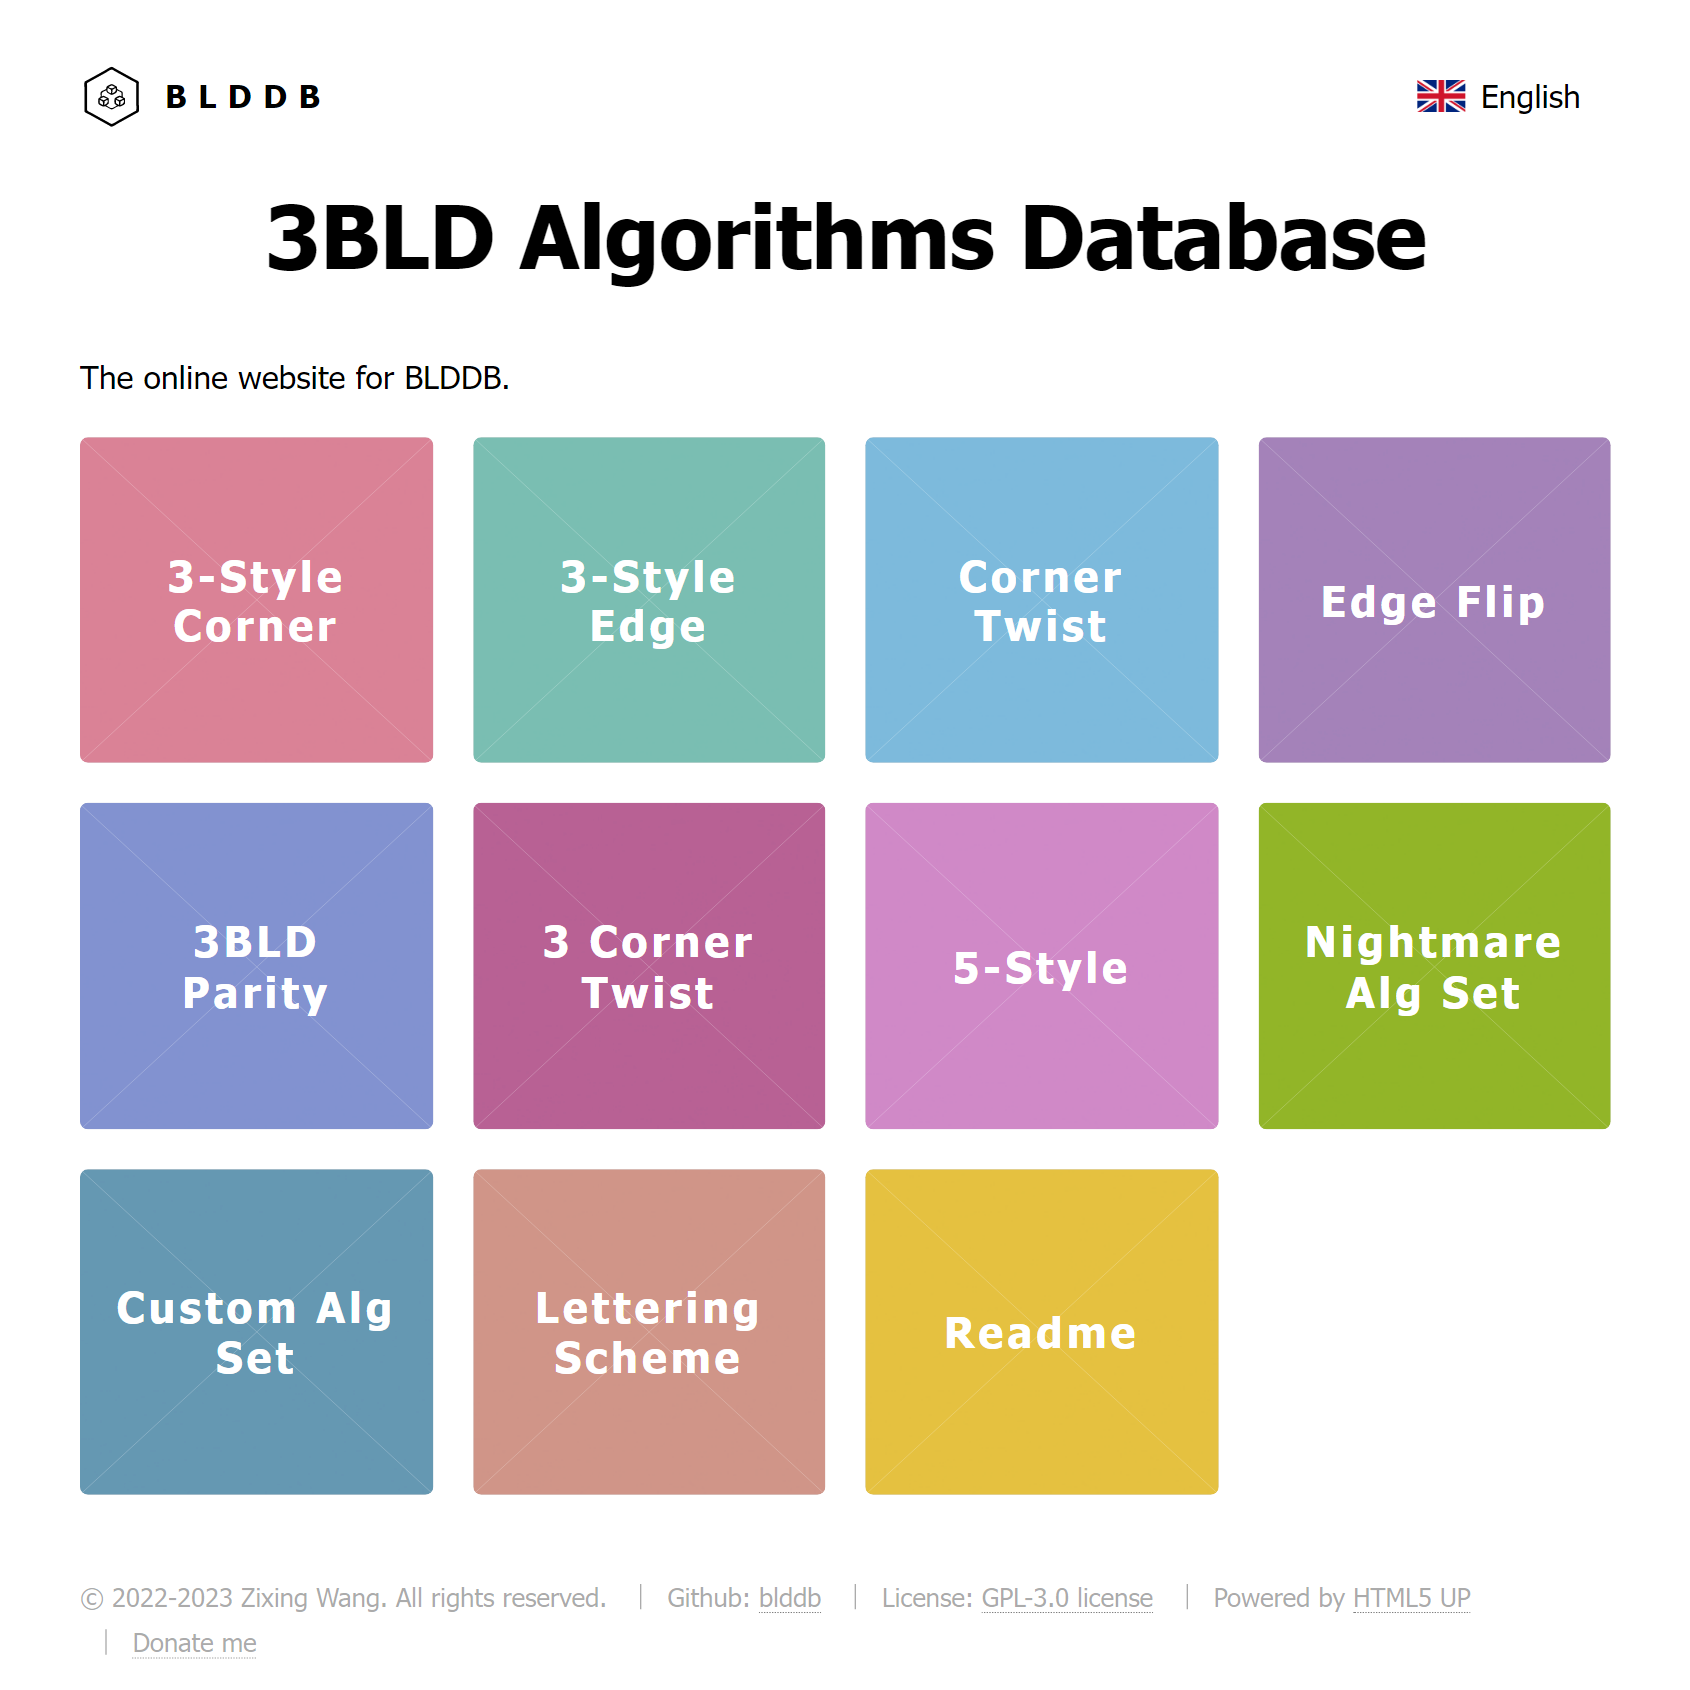
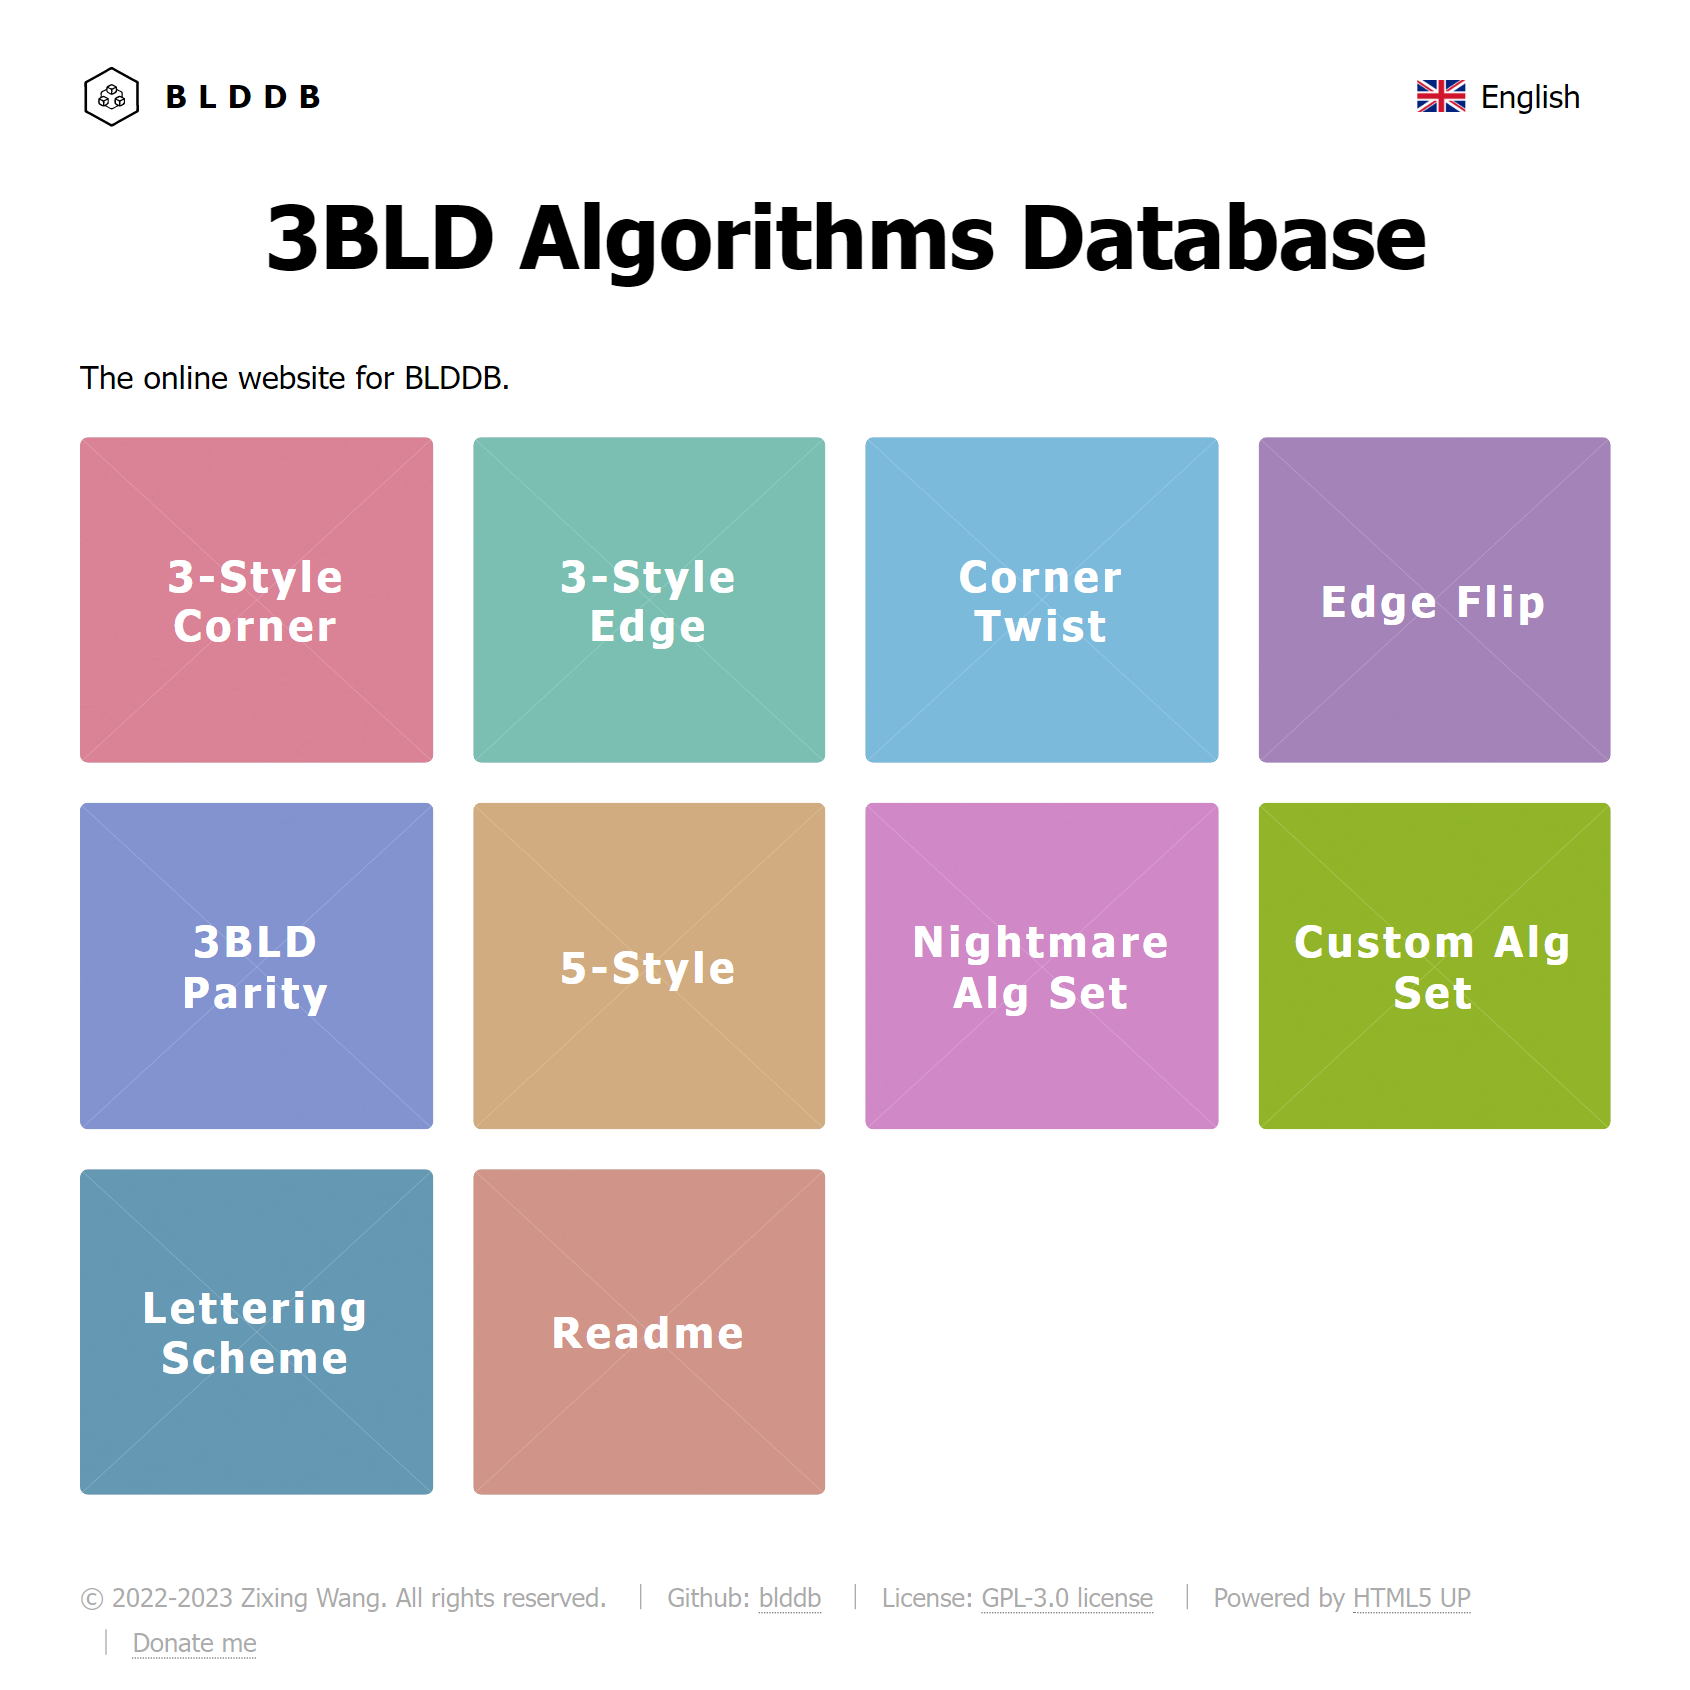
Add `twists`, remove `2twists` and `3twists`

diff --git a/en/index.html b/en/index.html
@@ -107,7 +107,6 @@
               <li class="nav-item"><a class="nav-link" href="#idocs_corner_twist">Corner Twist</a></li>
               <li class="nav-item"><a class="nav-link" href="#idocs_edge_flip">Edge Flip</a></li>
               <li class="nav-item"><a class="nav-link" href="#idocs_3bld_parity">3BLD Parity</a></li>
-              <li class="nav-item"><a class="nav-link" href="#idocs_3_corner_twist">3 Corner Twist</a></li>
               <li class="nav-item"><a class="nav-link" href="#idocs_5_style">5-Style</a></li>
               <li class="nav-item"><a class="nav-link" href="#idocs_nightmare_alg_set">Nightmare Alg set</a></li>
               <li class="nav-item"><a class="nav-link" href="#idocs_custom_alg_set">Custom Alg Set</a></li>
@@ -160,7 +159,7 @@
                   <li><strong>GitHub (docs):</strong> <a href="https://github.com/nbwzx/blddb-docs"
                       target="_blank">github.com/nbwzx/blddb-docs</a></li>
                   <li><strong>Created:</strong> June 12<sup>th</sup>, 2022</li>
-                  <li><strong>Update:</strong> January 19<sup>th</sup>, 2023</li>
+                  <li><strong>Update:</strong> March 20<sup>th</sup>, 2023</li>
                 </ul>
               </div>
             </div>
@@ -365,7 +364,7 @@
             <h2>Modules</h2>
             <p>
               　　<strong>BLDDB</strong> includes the
-              following eleven modules.
+              following ten modules.
             </p>
             <ul>
               <li>3-Style Corner</li>
@@ -373,7 +372,6 @@
               <li>Corner Twist</li>
               <li>Edge Flip</li>
               <li>3BLD Parity</li>
-              <li>3 Corner Twist</li>
               <li>5-Style</li>
               <li>Nightmare Alg Set</li>
               <li>Custom Alg Set</li>
@@ -444,8 +442,8 @@
             <p>
               　　Corner Twist uses the similar rules as the nightmare style of 3-Style Corner.
             </p>
-            <p><a class="popup-img" href="../assets/images/en/blddb.net_2twists.html.png"><img
-                  src="../assets/images/en/blddb.net_2twists.html.png" class="img-fluid img-thumbnail" alt="image"
+            <p><a class="popup-img" href="../assets/images/en/blddb.net_twists.html.png"><img
+                  src="../assets/images/en/blddb.net_twists.html.png" class="img-fluid img-thumbnail" alt="image"
                   style="width:min(70%, 600px)"></a></p>
           </section>
 
@@ -474,21 +472,6 @@
             </p>
             <p><a class="popup-img" href="../assets/images/en/blddb.net_parity.html.png"><img
                   src="../assets/images/en/blddb.net_parity.html.png" class="img-fluid img-thumbnail" alt="image"
-                  style="width:min(70%, 600px)"></a></p>
-          </section>
-
-          <hr class="divider">
-
-          <!-- 3 Corner Twist
-		============================ -->
-          <section id="idocs_3_corner_twist">
-            <h3>3 Corner Twist</h3>
-            <p>
-              　　3 Corner Twist uses the similar rules as the nightmare style of 3-Style Corner. What is special is the
-              addition of S layer turns.
-            </p>
-            <p><a class="popup-img" href="../assets/images/en/blddb.net_3twists.html.png"><img
-                  src="../assets/images/en/blddb.net_3twists.html.png" class="img-fluid img-thumbnail" alt="image"
                   style="width:min(70%, 600px)"></a></p>
           </section>
 

diff --git a/zh/index.html b/zh/index.html
@@ -107,7 +107,6 @@
               <li class="nav-item"><a class="nav-link" href="#idocs_corner_twist">翻角公式库</a></li>
               <li class="nav-item"><a class="nav-link" href="#idocs_edge_flip">翻棱公式库</a></li>
               <li class="nav-item"><a class="nav-link" href="#idocs_3bld_parity">奇偶公式库</a></li>
-              <li class="nav-item"><a class="nav-link" href="#idocs_3_corner_twist">三角翻库</a></li>
               <li class="nav-item"><a class="nav-link" href="#idocs_image">联想词库</a></li>
               <li class="nav-item"><a class="nav-link" href="#idocs_5_style">五循环库</a></li>
               <li class="nav-item"><a class="nav-link" href="#idocs_nightmare_alg_set">噩梦公式集</a></li>
@@ -161,7 +160,7 @@
                   <li><strong>GitHub (docs):</strong> <a href="https://github.com/nbwzx/blddb-docs"
                       target="_blank">github.com/nbwzx/blddb-docs</a></li>
                   <li><strong>创建:</strong> 2022年6月12日</li>
-                  <li><strong>更新:</strong> 2023年1月19日</li>
+                  <li><strong>更新:</strong> 2023年3月20日</li>
                 </ul>
               </div>
             </div>
@@ -348,7 +347,7 @@
           <section id="idocs_modules">
             <h2>模块</h2>
             <p>
-              　　<strong>三盲公式库</strong> 包含以下12个模块。
+              　　<strong>三盲公式库</strong> 包含以下11个模块。
             </p>
             <ul>
               <li>角块公式库</li>
@@ -356,7 +355,6 @@
               <li>翻角公式库</li>
               <li>翻棱公式库</li>
               <li>奇偶公式库</li>
-              <li>三角翻库</li>
               <li>联想词库</li>
               <li>五循环库</li>
               <li>噩梦公式集</li>
@@ -420,8 +418,8 @@
             <p>
               　　翻角公式库的原理和角块公式库类似。
             </p>
-            <p><a class="popup-img" href="../assets/images/zh/blddb.net_2twists.html.png"><img
-                  src="../assets/images/zh/blddb.net_2twists.html.png" class="img-fluid img-thumbnail" alt="image"
+            <p><a class="popup-img" href="../assets/images/zh/blddb.net_twists.html.png"><img
+                  src="../assets/images/zh/blddb.net_twists.html.png" class="img-fluid img-thumbnail" alt="image"
                   style="width:min(70%, 600px)"></a></p>
           </section>
 
@@ -450,20 +448,6 @@
             </p>
             <p><a class="popup-img" href="../assets/images/zh/blddb.net_parity.html.png"><img
                   src="../assets/images/zh/blddb.net_parity.html.png" class="img-fluid img-thumbnail" alt="image"
-                  style="width:min(70%, 600px)"></a></p>
-          </section>
-
-          <hr class="divider">
-
-          <!-- 3 Corner Twist
-		============================ -->
-          <section id="idocs_3_corner_twist">
-            <h3>三角翻库</h3>
-            <p>
-              　　三角翻库的原理和角块公式库类似，特别之处在于加入了S层操作和叠加的思路。
-            </p>
-            <p><a class="popup-img" href="../assets/images/zh/blddb.net_3twists.html.png"><img
-                  src="../assets/images/zh/blddb.net_3twists.html.png" class="img-fluid img-thumbnail" alt="image"
                   style="width:min(70%, 600px)"></a></p>
           </section>
 
